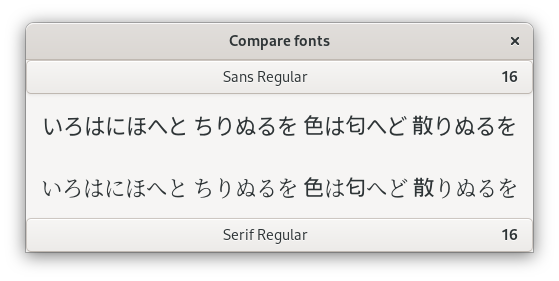
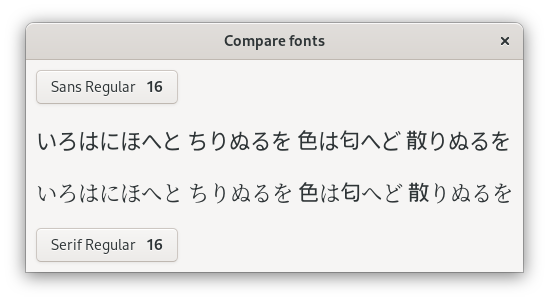
default to no wrap
relax widthRequest
print length of string

diff --git a/README.md b/README.md
@@ -3,7 +3,7 @@
 ## Usage
 
 ```shellsession
-$ compare-fonts --lang ja --no-wrap --margin 15
+$ compare-fonts --lang ja
 ```
 
 ![screenshot](compare-fonts.png)
